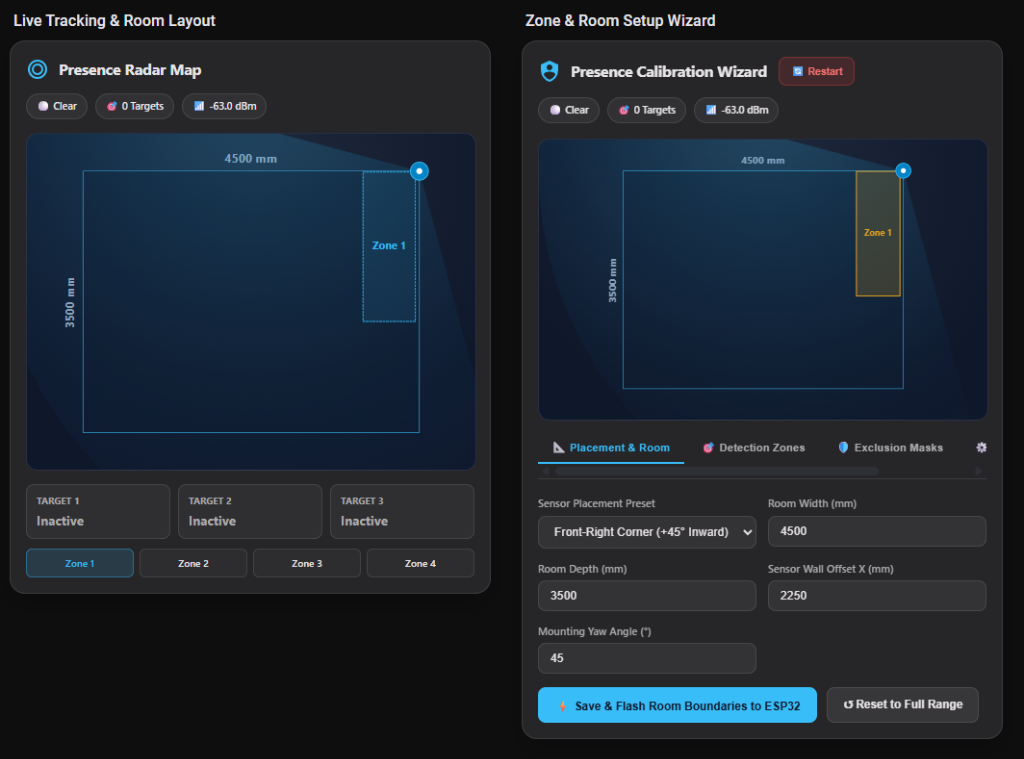
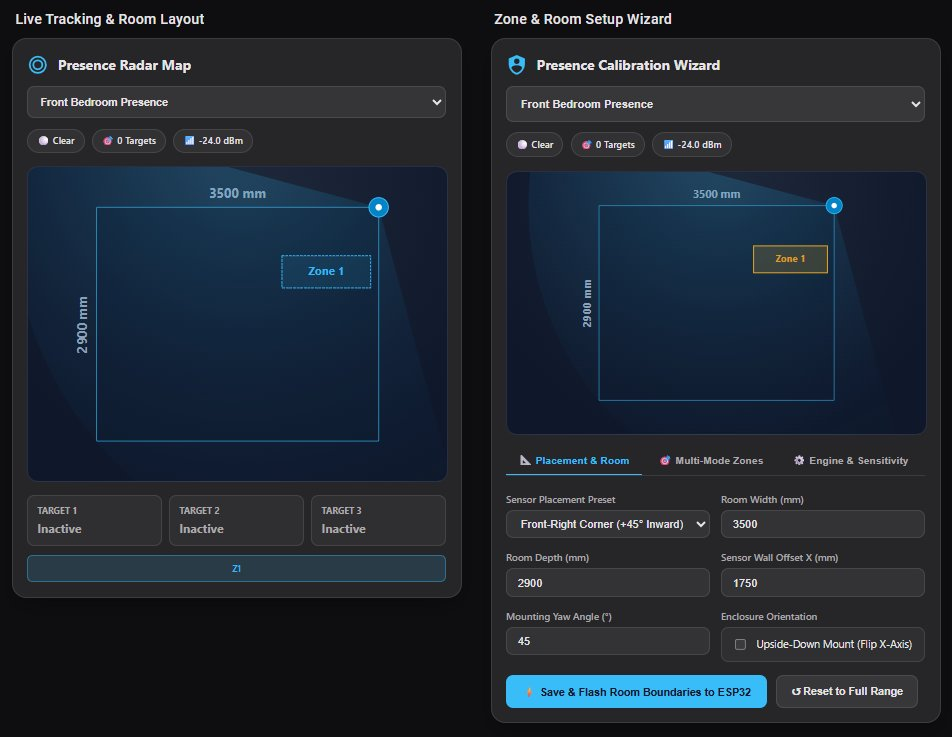
fix: resolve Add Zone button for newly enabled entities and update README visual assets

diff --git a/dist/presence-radar-card.js b/dist/presence-radar-card.js
@@ -373,14 +373,15 @@ class RadarEntityResolver {
     return Boolean(states[occId] && states[occId].state !== "unavailable");
   }
 
-  static isZoneActive(hass, entities, z) {
+  static isZoneActive(hass, entities, z, locallyEnabled = null) {
+    if (locallyEnabled && locallyEnabled.has(z)) return true;
     return this.isZoneConfigured(hass, entities, z) || this.isZoneEnabled(hass, entities, z);
   }
 
-  static getActiveZones(hass, entities) {
+  static getActiveZones(hass, entities, locallyEnabled = null) {
     const list = [];
     for (let z = 1; z <= 10; z++) {
-      if (this.isZoneActive(hass, entities, z)) {
+      if (this.isZoneActive(hass, entities, z, locallyEnabled)) {
         list.push(z);
       }
     }
@@ -420,36 +421,48 @@ class RadarVisibilityManager {
   }
 
   static async enableZone(hass, entities, z) {
-    if (!hass || !hass.callWS || !entities) return;
+    if (!hass || !entities) return;
     const ents = this.getZoneEntities(entities, z);
     for (const entityId of ents) {
-      try {
-        await hass.callWS({
-          type: "config/entity_registry/update",
-          entity_id: entityId,
-          disabled_by: null,
-          hidden_by: null
-        });
-      } catch (e) {}
+      if (hass.entities && hass.entities[entityId]) {
+        hass.entities[entityId].disabled = false;
+        hass.entities[entityId].disabled_by = null;
+      }
+      if (hass.callWS) {
+        try {
+          await hass.callWS({
+            type: "config/entity_registry/update",
+            entity_id: entityId,
+            disabled_by: null,
+            hidden_by: null
+          });
+        } catch (e) {}
+      }
     }
   }
 
   static async disableZone(hass, entities, z) {
-    if (!hass || !hass.callWS || !entities) return;
+    if (!hass || !entities) return;
     const ents = this.getZoneEntities(entities, z);
     for (const entityId of ents) {
-      try {
-        await hass.callWS({
-          type: "config/entity_registry/update",
-          entity_id: entityId,
-          disabled_by: "user",
-          hidden_by: null
-        });
-      } catch (e) {}
+      if (hass.entities && hass.entities[entityId]) {
+        hass.entities[entityId].disabled = true;
+        hass.entities[entityId].disabled_by = "user";
+      }
+      if (hass.callWS) {
+        try {
+          await hass.callWS({
+            type: "config/entity_registry/update",
+            entity_id: entityId,
+            disabled_by: "user",
+            hidden_by: null
+          });
+        } catch (e) {}
+      }
     }
   }
 
-  static async sync(hass, entities, selectedDevice) {
+  static async sync(hass, entities, selectedDevice, locallyEnabled = null) {
     if (!hass || !hass.callWS || !entities) return;
     const devKey = selectedDevice || "default";
     const cacheKey = `${devKey}_sync_disabled`;
@@ -457,6 +470,7 @@ class RadarVisibilityManager {
     this._synced[cacheKey] = true;
 
     for (let z = 1; z <= 10; z++) {
+      if (locallyEnabled && locallyEnabled.has(z)) continue;
       const isConfigured = RadarEntityResolver.isZoneConfigured(hass, entities, z);
       const isEnabled = RadarEntityResolver.isZoneEnabled(hass, entities, z);
       const shouldBeDisabled = !isConfigured && !isEnabled;
@@ -1917,6 +1931,7 @@ class RadarMapCard extends HTMLElement {
           return;
         }
         this._selectedDevice = e.target.value;
+        this._locallyEnabledZones = new Set();
         this._entities = RadarEntityResolver.resolve(this._hass, { device: this._selectedDevice });
         window.dispatchEvent(new CustomEvent("radar-device-selected", {
           detail: { device: this._selectedDevice }
@@ -2352,6 +2367,7 @@ class RadarCalibrationCard extends HTMLElement {
     this._selectedDevice = "";
     this._activeTab = "placement";
     this._selectedZone = 1;
+    this._locallyEnabledZones = new Set();
     this._zoneDirty = false;
     this._lastSyncedZoneSig = "";
     this._toastMsg = "";
@@ -3530,6 +3546,7 @@ class RadarCalibrationCard extends HTMLElement {
           return;
         }
         this._selectedDevice = e.target.value;
+        this._locallyEnabledZones = new Set();
         this._entities = RadarEntityResolver.resolve(this._hass, { device: this._selectedDevice });
         window.dispatchEvent(new CustomEvent("radar-device-selected", {
           detail: { device: this._selectedDevice }
@@ -4094,11 +4111,12 @@ class RadarCalibrationCard extends HTMLElement {
 
   async _enableZone(z) {
     if (!this._entities || !this._hass) return;
+    if (!this._locallyEnabledZones) this._locallyEnabledZones = new Set();
+    this._locallyEnabledZones.add(z);
     await RadarVisibilityManager.enableZone(this._hass, this._entities, z);
     this._selectedZone = z;
     this._setSelect(this._entities.zone_select, `Zone ${z}`);
     this._showToast(`Zone ${z} enabled. Configure coordinates below.`);
-    RadarVisibilityManager.clearCache(this._selectedDevice);
     this._renderZoneCardsAndStepper();
     this._updateViewfinder();
   }
@@ -4107,15 +4125,15 @@ class RadarCalibrationCard extends HTMLElement {
     if (!this._entities || !this._hass) return;
     const ent = this._entities;
     if (confirm(`Disable Zone ${z}? Its coordinates will be reset to 0 and entities will be disabled in Home Assistant.`)) {
+      if (this._locallyEnabledZones) this._locallyEnabledZones.delete(z);
       this._setNumber(ent[`zone${z}_x1`], 0);
       this._setNumber(ent[`zone${z}_y1`], 0);
       this._setNumber(ent[`zone${z}_x2`], 0);
       this._setNumber(ent[`zone${z}_y2`], 0);
       this._setNumber(ent[`zone${z}_angle`], 0);
       await RadarVisibilityManager.disableZone(this._hass, this._entities, z);
-      RadarVisibilityManager.clearCache(this._selectedDevice);
       this._showToast(`Zone ${z} disabled and coordinates cleared.`);
-      const remaining = RadarEntityResolver.getActiveZones(this._hass, this._entities).filter(n => n !== z);
+      const remaining = RadarEntityResolver.getActiveZones(this._hass, this._entities, this._locallyEnabledZones).filter(n => n !== z);
       this._selectedZone = remaining.length > 0 ? remaining[0] : 1;
       this._renderZoneCardsAndStepper();
       this._updateViewfinder();
@@ -4129,8 +4147,9 @@ class RadarCalibrationCard extends HTMLElement {
     const ent = this._entities;
     const states = this._hass.states;
 
+    if (!this._locallyEnabledZones) this._locallyEnabledZones = new Set();
     // Automatic Entity Visibility Sync in HA (silent background check)
-    RadarVisibilityManager.sync(this._hass, ent, this._selectedDevice);
+    RadarVisibilityManager.sync(this._hass, ent, this._selectedDevice, this._locallyEnabledZones);
 
     const getVal = (id, def = 0) => {
       if (!id || !states[id]) return def;
@@ -4139,7 +4158,7 @@ class RadarCalibrationCard extends HTMLElement {
     };
     const getState = (id, def = "off") => (id && states[id]) ? states[id].state : def;
 
-    const activeList = RadarEntityResolver.getActiveZones(this._hass, ent);
+    const activeList = RadarEntityResolver.getActiveZones(this._hass, ent, this._locallyEnabledZones);
 
     const toolbar = this.shadowRoot.getElementById("zonesToolbar");
     if (toolbar) {

diff --git a/README.md b/README.md
@@ -76,6 +76,10 @@ title: Radar Calibration & Setup
 
 If no radar sensors are detected yet, both cards automatically display an empty onboarding card with a **`⚡ Quick Setup Guide & YAML Generator`** button:
 
+<p align="center">
+  <img src="images/wizard.png" alt="ESPHome mmWave Radar Suite 1-Minute Setup Wizard" width="460" />
+</p>
+
 1. Click **`⚡ Quick Setup Guide & YAML Generator`** on either card (or select **`➕ Add New Sensor...`** from the device dropdown at any time).
 2. Fill out the 3 fields in the wizard dialog:
    * **Sensor Friendly Name**: e.g., `Living Room Presence` (the wizard automatically creates `node_name: living-room-presence`).
